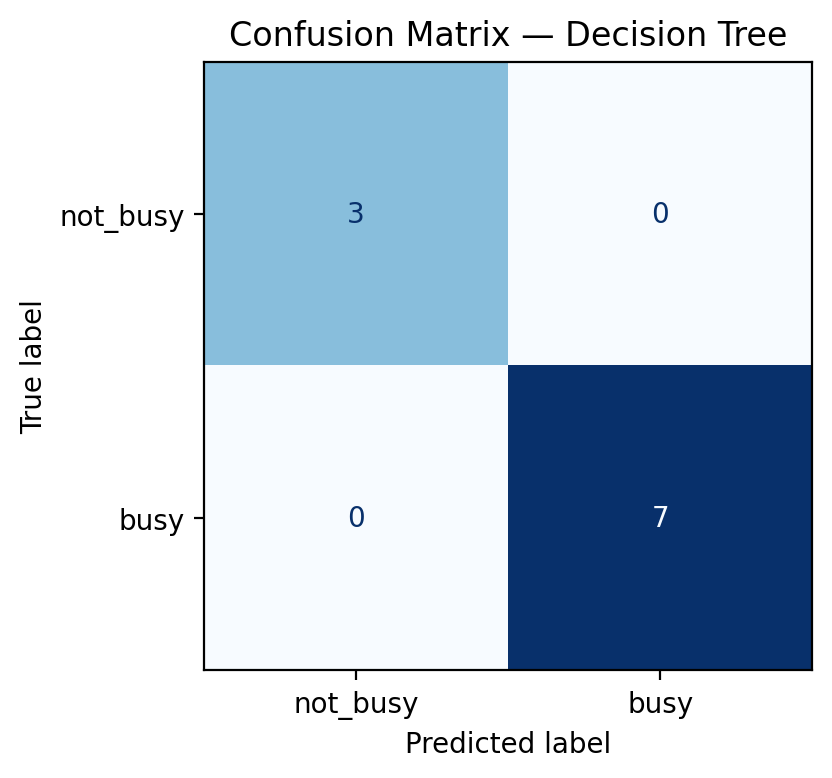
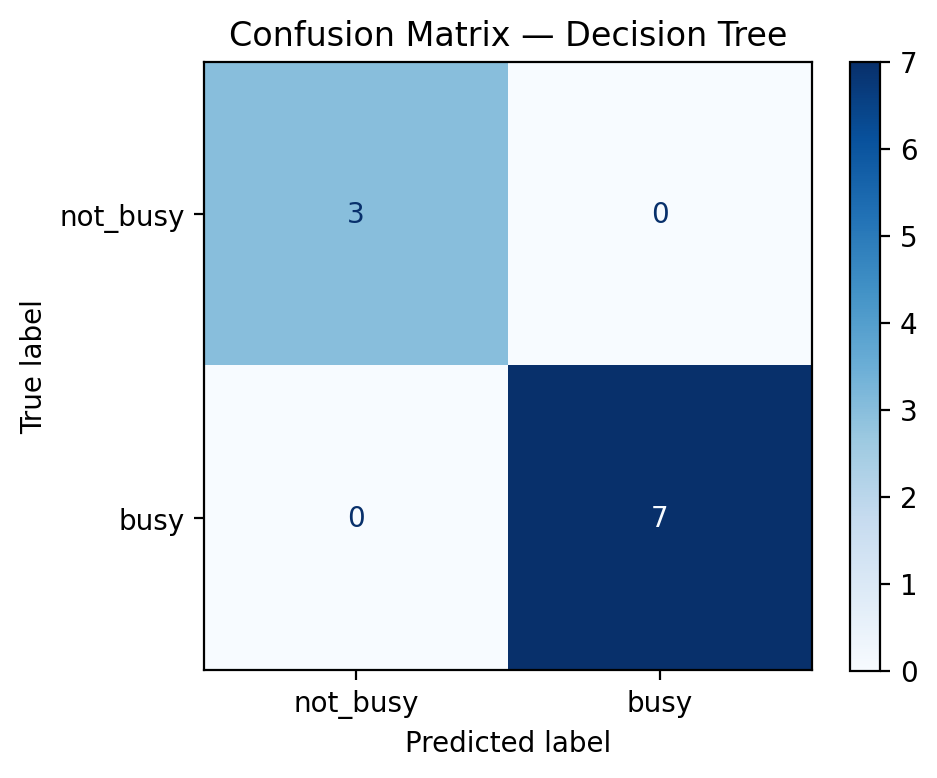
updating decision tree

diff --git a/app/templates/dt.html b/app/templates/dt.html
@@ -60,19 +60,17 @@
       These sets are disjoint—meaning they contain no overlapping rows—so that performance results reflect
       true predictive ability rather than memorization.</p>
 
-    <p>Below is a small labeled sample of the data used for modeling:</p>
-
     <figure>
         <img src="{{ url_for('static', path='figures/dt_sample_data.png') }}" alt="DT Sample" width="600" style="display: block; margin-left: auto; margin-right: auto;">
         <figcaption style="text-align: center;">
             Fig. 1
         </figcaption>
         <figcaption style="text-align: center;">
-            Sample of labeled daily data showing key wait time features and “busy” vs. “not busy” labels used for training the decision tree.
+            Cleaned data with “busy” vs. “not busy” labels to be used for training the decision tree.
         </figcaption>
     </figure>
 
-    <p><a href="https://github.com/A-Derks/Machine_Learning_Case_Study/blob/main/data/clean/dt_test_predictions.csv">Here</a> is a link to the data that I will be using
+    <p><a href="https://github.com/A-Derks/Machine_Learning_Case_Study/blob/main/data/clean/dt_test_predictions.csv">Here</a> is a link to the full dataset that I will be using
         for Decision Tree classification</p>
 
     <h3>Code</h3>

diff --git a/decision_tree.py b/decision_tree.py
@@ -50,7 +50,7 @@ def save_confusion_matrix(y_true, y_pred, labels=("not_busy", "busy"),
     disp = ConfusionMatrixDisplay(confusion_matrix=cm, display_labels=list(labels))
 
     fig, ax = plt.subplots(figsize=(5, 4))
-    disp.plot(cmap="Blues", ax=ax, colorbar=False)
+    disp.plot(cmap="Blues", ax=ax, colorbar=True)
     ax.set_title("Confusion Matrix — Decision Tree")
     plt.tight_layout()
     plt.savefig(out_path, dpi=200, bbox_inches="tight")
